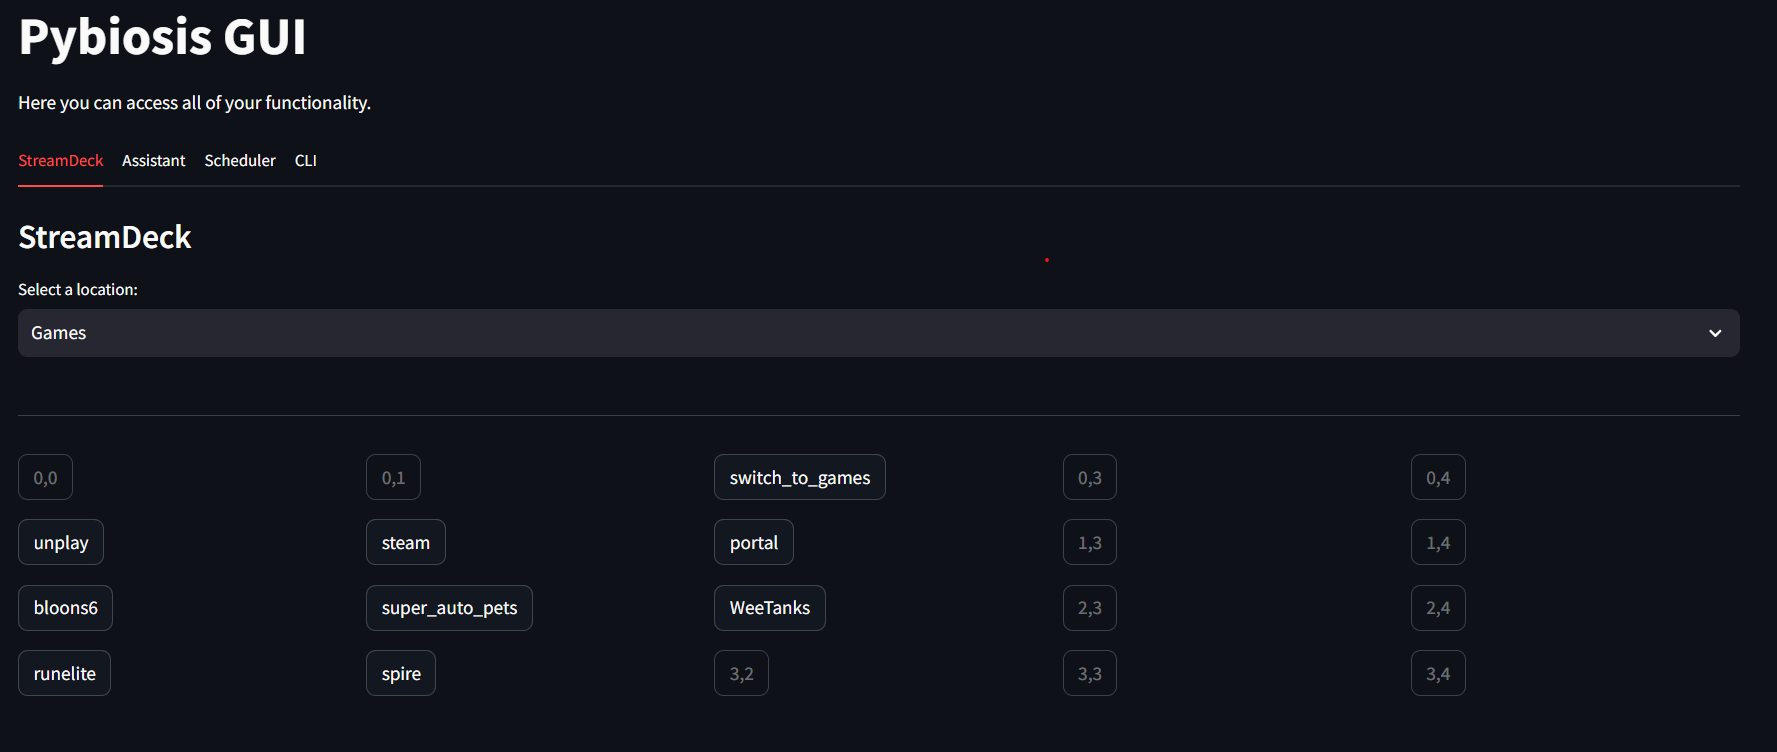
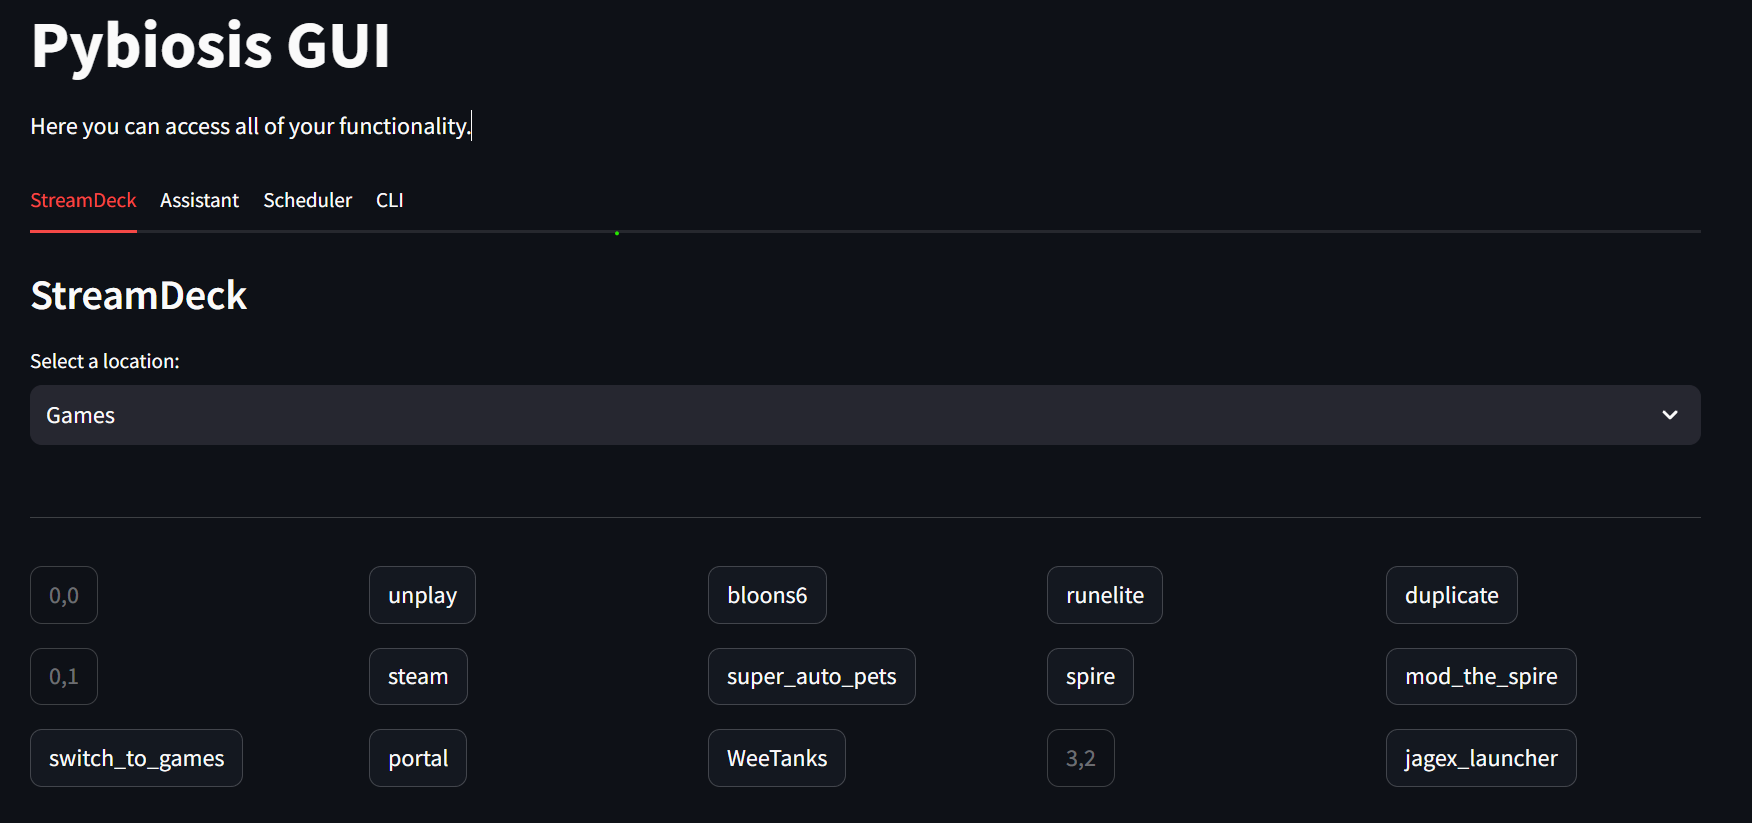
Small improvements
- Improved documentation.
- Bug fix in streamlit gui widget.
- Added missing import.

diff --git a/pybiosis/compilers/cli.py b/pybiosis/compilers/cli.py
@@ -22,17 +22,15 @@ def play_notification_sound():
 class CommandFramework:
 	""" Subclass this class, and create 'add_*' named methods to register them as commands. 
 	
-	The function must take: self, setup, args.
-	The function may take: unknown_args.
 	Here is an example:
 
 	```python
-	def add_my_new_command(self, setup, args, unknown_args):
+	def add_my_new_command(self, setup, args, **kwargs):
 		if setup:
 			setup.add_argument(...)
 			return
 
-		pass # Perform function using args, and potentially unknown_args.
+		pass # Perform function using args, and potentially `kwargs.get('unknown_args')`.
 	```
 	"""
 
@@ -106,7 +104,7 @@ class CommandFramework:
 		""" Attaches all the commands to the CLI.
 
 		Register a command by creating a method starting with "add_".
-		It must accept (self, setup, args). 
+		It must accept (self, setup, args, **kwargs). 
 		The name in add_name is used as the command name in the CLI.
 		The description is taken from the Doc string of the function if it exists.
 
@@ -132,7 +130,7 @@ class CommandFramework:
 				method(setup=parser, args=None)
 
 		if gui:
-			return self.parser.parse_args()
+			return self.parser.parse_args()  # When using gooey, this will launch the GUI.
 		return self.parser.parse_known_args()
 		
 	def dispatch(self, args, unknown_args=None) -> None:
@@ -141,7 +139,7 @@ class CommandFramework:
 		It assumes that since it is calling the methods with parser=None, that the method
 		will execute their intended logic (not the setup aspect).
 
-		add_ functions must take 'setup', 'args'; and optionally 'unknown_args'.
+		add_ functions must take 'setup', 'args', and '**kwargs'.
 		"""
 		assert args, f"Args should exist as a Namespace, but doesn't? {args}"
 		

diff --git a/pybiosis/compilers/gui.py b/pybiosis/compilers/gui.py
@@ -74,23 +74,22 @@ def main():
 							grouped_data[prefix] = []
 						grouped_data[prefix].append( {**layout[string_key], 'coords': coords})
 
-		st.write("### StreamDeck")
-		NUM_ROWS = 4
+		NUM_ROWS = 3
 		NUM_COLS = 5
-		location = st.selectbox(f"Select a location: ", sorted(list(grouped_data)))
+		st.write("### StreamDeck")
+		location = st.selectbox(f"Select a location: ", sorted([g for g in grouped_data if (',' not in g)]))
 		st.write('---')
 
 		mapping = {}
 		for function in grouped_data[location]:
 			mapping[function['coords']] = function
-
 		button_info = [  # Define labels and tool tips for buttons
 		    {
 		    	"label": mapping.get(f"{i},{j}", {'name': f'{i},{j}'})['name'],
 		    	# "tooltip": mapping.get(f"{i},{j}", {'description': f'{i},{j}'})['description'],
 		    	"tooltip": f"{i},{j}",  # Description not yet supported
 		    	"function": mapping.get(f"{i},{j}"),
-		    } for i in range(NUM_ROWS) for j in range(NUM_COLS)
+		    } for j in range(NUM_ROWS) for i in range(NUM_COLS)
 		]
 		create_grid(NUM_ROWS, NUM_COLS, button_info)
 

diff --git a/README.md b/README.md
@@ -4,9 +4,10 @@
 > What could empower you more than a symbiotic relationship with Python?
 
 Pybiosis is an automation software that focuses on making python functions more accessible by providing versatile entry-points to functions.
-This project makes heavy use of decorators, which define the entry-points. Currently, there are existing implementations for services like [StreamDeck](#streamdeck), [Google Assistant](#google-assistant), and [Windows Task Scheduler](#scheduler). Pybiosis also provides a CLI, GUI CLI (using gooey), and GUI (using streamlit) to access these functions.
+This project makes heavy use of decorators, which define the entry-points. Currently, there are existing implementations for services like [StreamDeck](#streamdeck), [Google Assistant](#google-assistant), and [Windows Task Scheduler](#scheduler). Pybiosis also provides a CLI, a _GUI_ CLI (using [gooey](https://github.com/chriskiehl/Gooey/tree/master), and GUI (using [streamlit](https://github.com/streamlit/streamlit)) to access these functions.
 
-## Examples
+## How It Works
+### Example:
 Wrap your functions in decorators to add entry points from other devices and services:
 ```python
 from pybiosis import *
@@ -22,7 +23,7 @@ def spire():
 ```
 
 
-In this example, I can launch the game or any function from: a Graphical User Interface (GUI), a Command-Line Interface (CLI), Voice Commands (through Google Assistant), the StreamDeck Hardware, and on a schedule. 
+In this example, I can launch a selected game from: a Graphical User Interface (GUI), a Command-Line Interface (CLI), Voice Commands (through Google Assistant), the StreamDeck Hardware, and on a schedule. 
 
 ---
 Let's unpack all of that!
@@ -44,7 +45,7 @@ Then, there are the decorators:
 - ```@Scheduler(trigger="Daily", start="today-5:01pm")```
     - The `Scheduler` decorator executes the provided function regularly, in this case right on time to unwind!
 
-### General:
+### Decorators:
 Each decorator is powered by a compiler that connects that function to a given service or device. Here are some basic examples. See [Compilers](#compilers) below for more details.
 
 1. Create a simple function. 
@@ -127,10 +128,10 @@ This is what the `register` decorator resolves. It decomposes the nested classes
 
 Furthermore, every decorated function is saved as an execution string (`python ...`) in a `.vbs` and `.bat` file. Those allow us to control whether a debug window pops up, for example. This accessible format allows the functions to be called from other programs that can't easily access python directly. For example, the StreamDeck doesn't easily support executing the right python command, but it easily supports running those script files.
 
-### Compilers
+## Compilers
 Pybiosis comes with some built-in device compilers. You may also define your own if you have a novel device.
 
-#### StreamDeck
+### StreamDeck
 Requires a [StreamDeck](https://www.elgato.com/en/stream-deck).
 
 1. Specify a location for the button to be placed specifying a folder, row, and column. See [Limitations](#limitations) about needing to _manually_ create folders through the StreamDeck GUI.
@@ -152,7 +153,7 @@ Requires a [StreamDeck](https://www.elgato.com/en/stream-deck).
         pass
     ```
 If you use multiple StreamDeck profiles, you can set the Environment Variable `PYBIOSIS_PROFILE_ID` to the desired identifier (without `.sdProfile`). The identifiers can be found in `AppData\Roaming\Elgato\StreamDeck\ProfilesV2`.
-#### Google Assistant
+### Google Assistant
 Requires a [Push2Run](https://www.push2run.com/) installation and access to a Google Assistant device. Push2Run has been tested with the Dropbox method and the key phrase "on pc", although the API has historically been depreciated and possibly restored, so please check the link for the current status.
 
 1. The simpliest way to register a command is with a single word.
@@ -181,7 +182,7 @@ Requires a [Push2Run](https://www.push2run.com/) installation and access to a Go
         os.system(R'jre\bin\java.exe -jar mts-launcher.jar')
     ```
 
-#### Scheduler
+### Scheduler
 Requires a Windows machine. No installation is required since it uses the Windows Task Scheduler. See [`schtasks.exe`](https://docs.microsoft.com/en-us/windows-server/administration/windows-commands/schtasks-create) for more details on usage.
 
 1. Schedule a function to run now (in the next minute).
@@ -215,11 +216,40 @@ Requires a Windows machine. No installation is required since it uses the Window
         import winsound
         winsound.Beep(1000, 200)
     ```
-#### Custom
+
+### CLI
+
+You can access the full CLI, including any functions that are decorated (using `run`).
+```bash
+python -m pybiosis --help  # Get CLI usage information.
+python -m pybiosis config --set user_path /Path/To/User/Path/  # Set the user path.
+python -m pybiosis config --list  # List config variables.
+python -m pybiosis compile  # Compile all decorated functions.
+python -m pybiosis user  # Launch the user driver.py file (could be a CLI or main module).
+python -m pybiosis run monitors.to_70  # Run a specific user function.
+python -m pybiosis gui  # Launch the GUI to access functions graphically.
+python -m pybiosis  # Launch the CLI as a simple GUI.
+```
+Please note that two aliases are also registered: `pybiosis` and `bb`, so you can run:
+```bash
+python -m pybiosis # Launch the CLI as a simple GUI.
+pybiosis # Use a short form
+bb  # Even shorter
+```
+
+See usage for more.
+
+### GUI
+
+Each compiler may implement a GUI (using `streamlit`) to provide more tailored access to their functions through a GUI. This improves ease of use over the GUI CLI, but it requires additional development time to create.
+
+See usage for more.
+
+### Custom
 You can also create your own compiler just by inheriting from `Device` (or a subclass). Check out the existing implementations for ideas.
 
 ## Installation
-1. Install `Pybiosis` through pip with `pip install pybiosis`.
+1. Install `Pybiosis` through pip with `pip install pybiosis`. For the latest version, simply use Githuib Desktop (or Git) to clone this repository and use `pip install -r requirements.txt -e .` in the directory with `setup.py`.
 2. Create a directory to hold your custom functions and run `python -m pybiosis config --set user_path /Path/To/My/User/Path`.
 3. Add a file called `driver.py` to that directory and have it contain this code:
     ```python
@@ -235,13 +265,16 @@ You can also create your own compiler just by inheriting from `Device` (or a sub
 ## Usage
 A CLI, GUI wrapper for that CLI, and a GUI provide general access to these functions. Otherwise, they are accessible through the attached device/service.
 
-1. Run `python -m pybiosis --help` to learn about the CLI, which includes `compile`, `config`, `run`, and `user` commands. All decorated functions are accessible through the CLI.
+1. Run `python -m pybiosis --help` to learn about the CLI, which includes `config`, `compile`, `run`, `gui`, and `user` commands. All decorated functions are accessible through the CLI.
+
 ![something](pybiosis/images/CLI.png)
 
 2. Run `python -m pybiosis` to launch the CLI as a GUI (thanks to [gooey](https://github.com/chriskiehl/Gooey)). This GUI opens by default if no command is specified when invoking `pybiosis`.
+
 ![The CLI as a GUI](pybiosis/images/CLI_GUI.png)
 
 3. It is highly recommended to provide a CLI for your driver.py file:
+
 ```python
 from pybiosis.compilers.cli import CommandFramework
 from rich import print  # Optional `pip install rich`
@@ -257,16 +290,22 @@ class Commands(CommandFramework):
 ```
 This provides the ability for the user to define a CLI for custom  commands (in addition to being able to access the decorated functions). You can access a command (eg: videos) with `python -m pybiosis user videos`, or access the GUI CLI with `python -m pybiosis user`.
 
-4. Finally, you can access your functions through the respective device.
+4. The command `python -m pybiosis gui` will launch a GUI for you to access the device functions. 
+
+![The GUI, showing the streamdeck page.](pybiosis/images/GUI.png)
+
+5. Finally, you can access your functions through the respective device.
 
 ## Limitations
 1. Most of this functionality is tested on Windows.
 2. If you get a password prompt from Push2Run, simply recompile until it stops.
 
 ## Future Work
-1. Stream Deck folders cannot be generated programmatically, and deleting is not yet supported.
-2. Add tools like monitor control, audio controls, usb devices, games, GUI automation, dashboard.
-3. Add examples folder.
+1. Stream Deck folders cannot be generated programmatically yet, nor is deleting supported.
+2. Make the PYBIOSIS_USER_PATH variable a config variable, rather than an environment one.
+3. Fill out the GUI. Each device subclass should implement their own widget.
+4. Add tools like monitor control, audio controls, usb devices, games, GUI automation, dashboard.
+5. Add examples folder.
 
 
 ## Questions?
